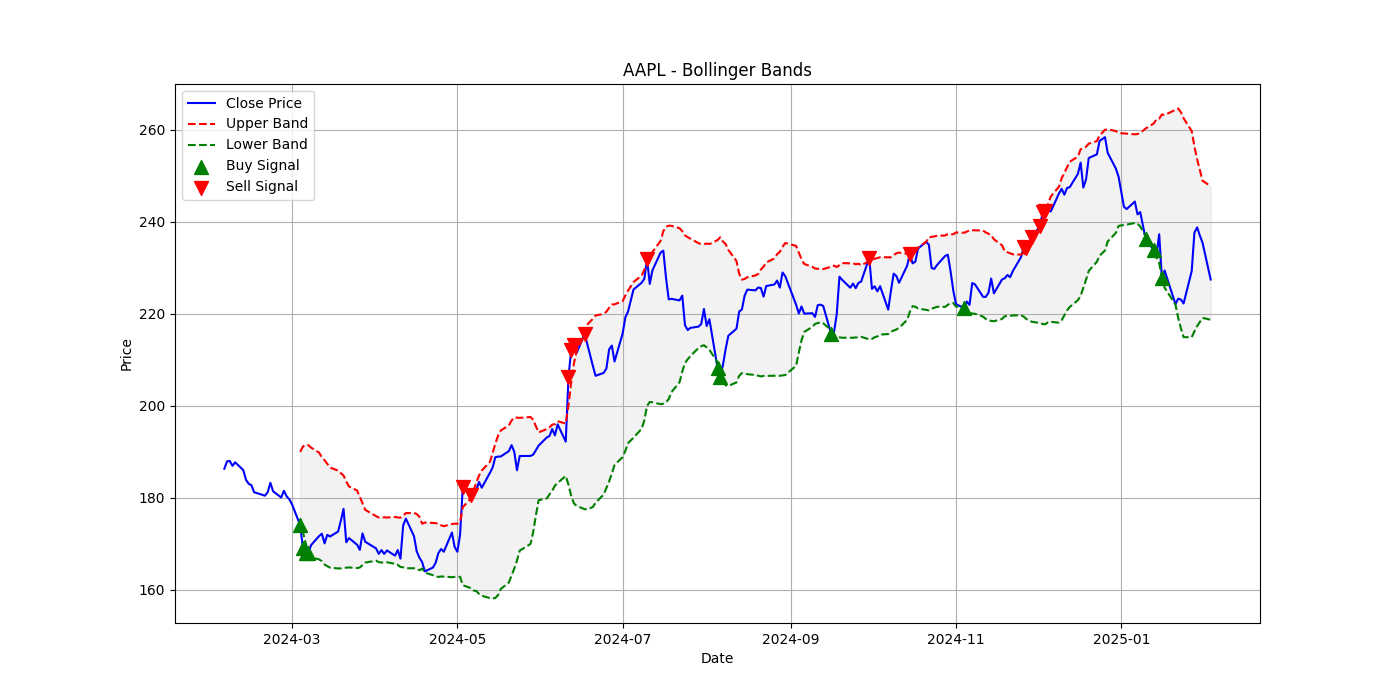
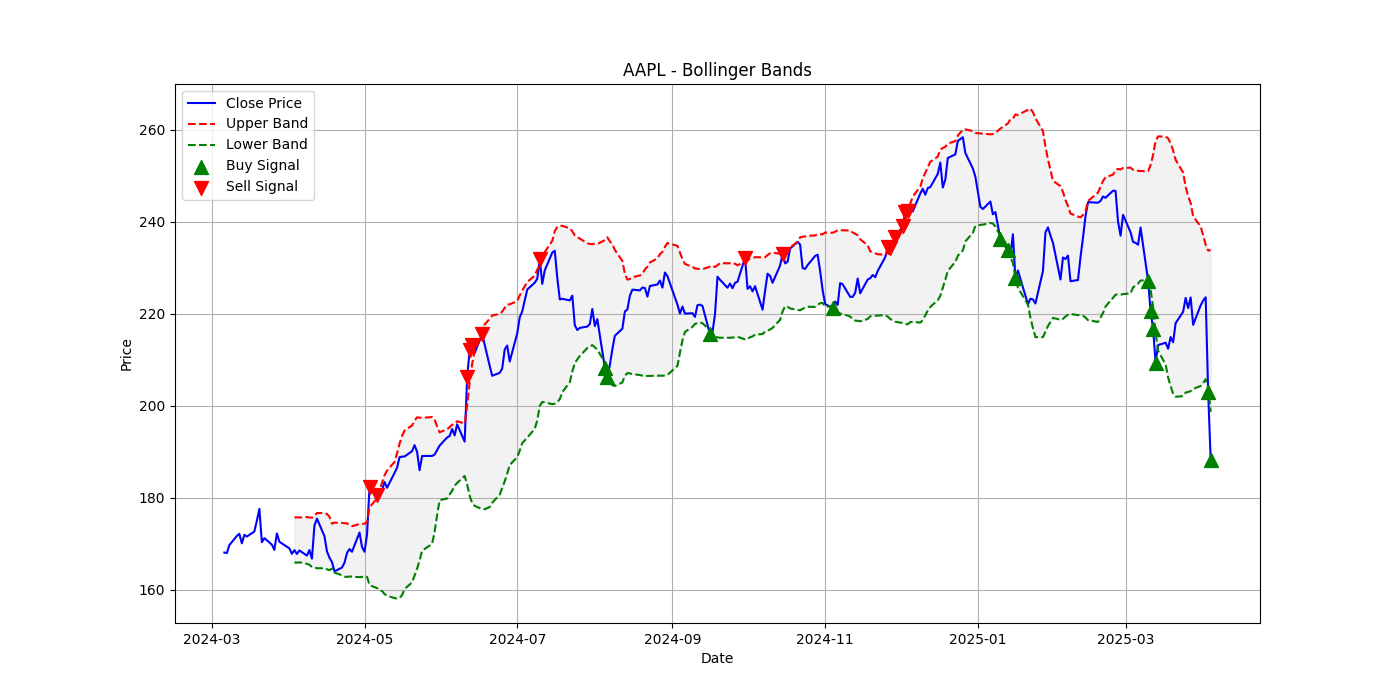
test

diff --git a/portfolio-management/scripts/technical_analysis.py b/portfolio-management/scripts/technical_analysis.py
@@ -2,9 +2,10 @@ import yfinance as yf
 import pandas as pd
 from finta import TA
 import matplotlib.pyplot as plt
+import mplfinance as mpf
 
 
-def descargar_datos(ticker, start="2024-02-04", end="2025-02-04"):
+def descargar_datos(ticker, start="2024-03-06", end="2025-04-06"):
     """Descarga datos históricos de Yahoo Finance"""
     print(f"Descargando datos para {ticker} desde {start} hasta {end}...")
     datos = yf.download(ticker, start=start, end=end)
@@ -144,6 +145,180 @@ def plot_bollinger_bands(df, ticker):
     plt.grid(True)
     plt.savefig(f'/home/marcos/Escritorio/mhp/quantitative-analysis-finance/portfolio-management/visualizations/{ticker}_bollinger_bands_plot.png')  # Save the Bollinger Bands plot
 
+# Function to plot combined RSI and MACD
+def plot_combined_analysis(df, ticker):
+    fig, (ax1, ax2, ax3) = plt.subplots(3, 1, figsize=(14, 15), sharex=True)
+
+    # Plot close price with volume
+    ax1.set_title(f'{ticker} - Close Price and Volume')
+    ax1.plot(df['date'], df['close'], label='Close Price', color='blue')
+    ax1.set_ylabel('Close Price')
+    ax1.grid(True)
+
+    # Plot volume
+    ax1v = ax1.twinx()
+    ax1v.bar(df['date'], df['volume'], color='gray', alpha=0.3, label='Volume')
+    ax1v.set_ylabel('Volume')
+    ax1v.set_ylim(0, df['volume'].max() * 4)
+    ax1v.grid(False)
+
+    # Plot RSI
+    ax2.set_title(f'{ticker} - RSI')
+    ax2.plot(df['date'], df['rsi'], label='RSI', color='purple')
+    ax2.axhline(70, color='red', linestyle='--')  # Overbought line
+    ax2.axhline(30, color='green', linestyle='--')  # Oversold line
+    ax2.fill_between(df['date'], 30, 70, color='purple', alpha=0.1)
+    ax2.set_ylabel('RSI')
+    ax2.grid(True)
+
+    # Plot MACD
+    ax3.set_title(f'{ticker} - MACD')
+    ax3.plot(df['date'], df['macd'], label='MACD', color='blue')
+    ax3.plot(df['date'], df['signal_line'], label='Signal Line', color='red')
+    ax3.bar(df['date'], df['macd'] - df['signal_line'], label='MACD Histogram', color='gray', alpha=0.3)
+    ax3.set_ylabel('MACD')
+    ax3.set_xlabel('Date')
+    ax3.grid(True)
+    ax3.legend(loc='best')
+
+    plt.tight_layout()
+    plt.savefig(f'/home/marcos/Escritorio/mhp/quantitative-analysis-finance/portfolio-management/visualizations/{ticker}_combined_analysis_plot.png')  # Save the combined plot
+
+def calcular_momentum(df, period=10):
+    """Calcula el indicador de Momentum"""
+    print("\nCalculando Momentum...")
+    df['momentum'] = df['close'] - df['close'].shift(period)
+    print(df[['date', 'close', 'momentum']].tail())  # Print the last few rows to verify
+
+def plot_price_and_momentum(df, ticker):
+    fig, (ax1, ax2) = plt.subplots(2, 1, figsize=(14, 10), sharex=True)
+
+    # Plot close price
+    ax1.set_title(f'{ticker} - Close Price')
+    ax1.plot(df['date'], df['close'], label='Close Price', color='blue')
+    ax1.set_ylabel('Close Price')
+    ax1.grid(True)
+
+    # Plot Momentum
+    ax2.set_title(f'{ticker} - Momentum')
+    ax2.plot(df['date'], df['momentum'], label='Momentum', color='orange')
+    ax2.axhline(0, color='black', linestyle='--')  # Zero line
+    ax2.set_ylabel('Momentum')
+    ax2.set_xlabel('Date')
+    ax2.grid(True)
+    ax2.legend(loc='best')
+
+    # Plot buy signals
+    buy_signals = df[(df['momentum'] > 0) & (df['momentum'].shift(1) <= 0)]
+    ax2.scatter(buy_signals['date'], buy_signals['momentum'], marker='^', color='green', label='Buy Signal', s=100, zorder=5)
+
+    # Plot sell signals
+    sell_signals = df[(df['momentum'] < 0) & (df['momentum'].shift(1) >= 0)]
+    ax2.scatter(sell_signals['date'], sell_signals['momentum'], marker='v', color='red', label='Sell Signal', s=100, zorder=5)
+
+    plt.tight_layout()
+    plt.savefig(f'/home/marcos/Escritorio/mhp/quantitative-analysis-finance/portfolio-management/visualizations/{ticker}_price_momentum_plot.png')  # Save the combined plot
+
+# Function to plot candlestick chart with Momentum
+def plot_candlestick_and_momentum(df, ticker):
+    fig, (ax1, ax2) = plt.subplots(2, 1, figsize=(14, 10), sharex=True)
+
+    # Plot candlestick chart
+    mpf.plot(df.set_index('date'), type='candle', ax=ax1, show_nontrading=True, style='yahoo')
+    ax1.set_title(f'{ticker} - Candlestick Chart')
+    ax1.set_ylabel('Price')
+    ax1.grid(True)
+
+    # Plot Momentum
+    ax2.set_title(f'{ticker} - Momentum')
+    ax2.plot(df['date'], df['momentum'], label='Momentum', color='orange')
+    ax2.axhline(0, color='black', linestyle='--')  # Zero line
+    ax2.set_ylabel('Momentum')
+    ax2.set_xlabel('Date')
+    ax2.grid(True)
+    ax2.legend(loc='best')
+
+    # Plot buy signals
+    buy_signals = df[(df['momentum'] > 0) & (df['momentum'].shift(1) <= 0)]
+    ax2.scatter(buy_signals['date'], buy_signals['momentum'], marker='^', color='green', label='Buy Signal', s=100, zorder=5)
+
+    # Plot sell signals
+    sell_signals = df[(df['momentum'] < 0) & (df['momentum'].shift(1) >= 0)]
+    ax2.scatter(sell_signals['date'], sell_signals['momentum'], marker='v', color='red', label='Sell Signal', s=100, zorder=5)
+
+    plt.tight_layout()
+    plt.savefig(f'/home/marcos/Escritorio/mhp/quantitative-analysis-finance/portfolio-management/visualizations/{ticker}_candlestick_momentum_plot.png')  # Save the combined plot
+
+def plot_candlestick_and_rsi(df, ticker):
+    fig, (ax1, ax2) = plt.subplots(2, 1, figsize=(14, 10), sharex=True)
+
+    # Plot candlestick chart
+    mpf.plot(df.set_index('date'), type='candle', ax=ax1, show_nontrading=True, style='yahoo')
+    ax1.set_title(f'{ticker} - Candlestick Chart')
+    ax1.set_ylabel('Price')
+    ax1.grid(True)
+
+    # Plot RSI
+    ax2.set_title(f'{ticker} - RSI')
+    ax2.plot(df['date'], df['rsi'], label='RSI', color='purple')
+    ax2.axhline(70, color='red', linestyle='--')  # Overbought line
+    ax2.axhline(30, color='green', linestyle='--')  # Oversold line
+    ax2.fill_between(df['date'], 30, 70, color='purple', alpha=0.1)
+    ax2.set_ylabel('RSI')
+    ax2.set_xlabel('Date')
+    ax2.grid(True)
+    ax2.legend(loc='best')
+
+    plt.tight_layout()
+    plt.savefig(f'/home/marcos/Escritorio/mhp/quantitative-analysis-finance/portfolio-management/visualizations/{ticker}_candlestick_rsi_plot.png')  # Save the combined plot
+
+def plot_candlestick_and_macd(df, ticker):
+    fig, (ax1, ax2) = plt.subplots(2, 1, figsize=(14, 10), sharex=True)
+
+    # Plot candlestick chart
+    mpf.plot(df.set_index('date'), type='candle', ax=ax1, show_nontrading=True, style='yahoo')
+    ax1.set_title(f'{ticker} - Candlestick Chart')
+    ax1.set_ylabel('Price')
+    ax1.grid(True)
+
+    # Plot MACD
+    ax2.set_title(f'{ticker} - MACD')
+    ax2.plot(df['date'], df['macd'], label='MACD', color='blue')
+    ax2.plot(df['date'], df['signal_line'], label='Signal Line', color='red')
+    ax2.bar(df['date'], df['macd'] - df['signal_line'], label='MACD Histogram', color='gray', alpha=0.3)
+    ax2.set_ylabel('MACD')
+    ax2.set_xlabel('Date')
+    ax2.grid(True)
+    ax2.legend(loc='best')
+
+    plt.tight_layout()
+    plt.savefig(f'/home/marcos/Escritorio/mhp/quantitative-analysis-finance/portfolio-management/visualizations/{ticker}_candlestick_macd_plot.png')  # Save the combined plot
+
+def plot_candlestick_and_bollinger(df, ticker):
+    fig, ax1 = plt.subplots(figsize=(14, 7))
+
+    # Plot candlestick chart
+    mpf.plot(df.set_index('date'), type='candle', ax=ax1, show_nontrading=True, style='yahoo')
+    ax1.set_title(f'{ticker} - Candlestick Chart with Bollinger Bands')
+    ax1.set_ylabel('Price')
+    ax1.grid(True)
+
+    # Plot Bollinger Bands
+    ax1.plot(df['date'], df['upper_band'], label='Upper Band', color='red', linestyle='--')
+    ax1.plot(df['date'], df['lower_band'], label='Lower Band', color='green', linestyle='--')
+    ax1.fill_between(df['date'], df['lower_band'], df['upper_band'], color='gray', alpha=0.1)
+
+    # Plot buy signals
+    buy_signals = df[df['close'] < df['lower_band']]
+    ax1.scatter(buy_signals['date'], buy_signals['close'], marker='^', color='green', label='Buy Signal', s=100, zorder=5)
+
+    # Plot sell signals
+    sell_signals = df[df['close'] > df['upper_band']]
+    ax1.scatter(sell_signals['date'], sell_signals['close'], marker='v', color='red', label='Sell Signal', s=100, zorder=5)
+
+    plt.tight_layout()
+    plt.savefig(f'/home/marcos/Escritorio/mhp/quantitative-analysis-finance/portfolio-management/visualizations/{ticker}_candlestick_bollinger_plot.png')  # Save the combined plot
+
 # Example usage
 ticker = "AAPL"
 datos = descargar_datos(ticker)
@@ -155,3 +330,10 @@ calcular_macd(datos)
 plot_price_and_macd_with_histogram(datos, ticker)
 calcular_bollinger_bands(datos)
 plot_bollinger_bands(datos, ticker)
+plot_combined_analysis(datos, ticker)
+calcular_momentum(datos)
+plot_price_and_momentum(datos, ticker)
+plot_candlestick_and_momentum(datos, ticker)
+plot_candlestick_and_rsi(datos, ticker)
+plot_candlestick_and_macd(datos, ticker)
+plot_candlestick_and_bollinger(datos, ticker)
